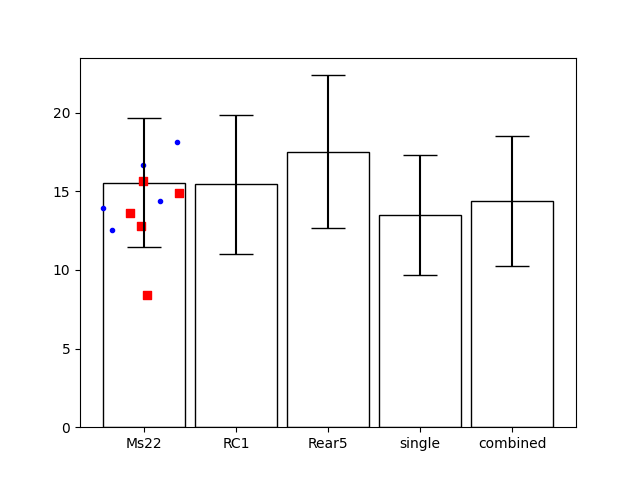
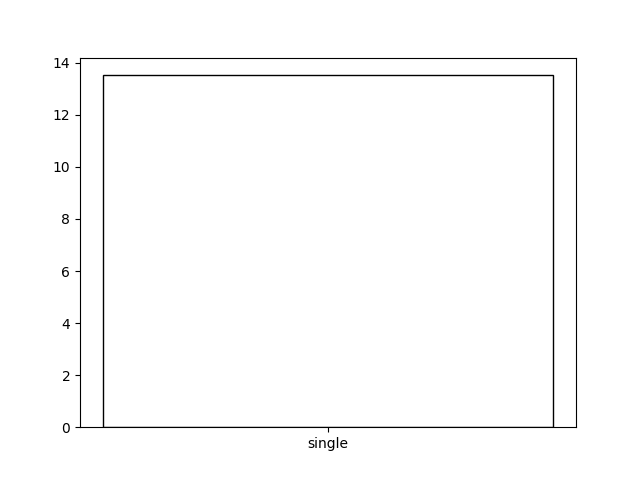
DLC udpate

diff --git a/DeepLabCut/DLC_jump_analysis/all_trackers/jump_analysis.py b/DeepLabCut/DLC_jump_analysis/all_trackers/jump_analysis.py
@@ -31,14 +31,15 @@ def main(full_path, relative_path, fname1, fname2):
         nose_values1 = nose_df1.columns.values.astype(float)
         dataframes_list.append(nose_values1)
 
-    combined_values = dataframes_list[0]
-    print(combined_values)
-    combined_values_wo_Rear5 = combined_values[0:10]
-    print(combined_values_wo_Rear5)
+    # combined_values = dataframes_list[0]
+    #single_values = dataframes_list[0]
+    # print(combined_values)
+    # combined_values_wo_Rear5 = combined_values[0:10]
+    # print(combined_values_wo_Rear5)
 
-    Ms22_values = dataframes_list[1]
-    RC1_values = dataframes_list[2]
-    Rear5_values = dataframes_list[3]
+    # Ms22_values = dataframes_list[1]
+    # RC1_values = dataframes_list[2]
+    # Rear5_values = dataframes_list[3]
     single_values = dataframes_list[4]
     #Order of single trackers: Ms22, RC1, Rear5
   
@@ -48,9 +49,9 @@ def main(full_path, relative_path, fname1, fname2):
     x2 = [1, 2, 3, 4, 5]
     colors1 = ['red','blue']
     colors2 = ['red','blue', 'green', 'purple', 'orange', 'brown']
-    y1 = single_values, combined_values
+    y1 = single_values#, combined_values
     #y2 = Ms22_values, RC1_valuecds, Rear5_values
-    y3 = Ms22_values, RC1_values, Rear5_values, single_values, combined_values
+    #y3 = Ms22_values, RC1_values, Rear5_values, single_values, combined_values
     #y5 = single_trackers_df, combined_new_df_values, avg_new_df_values
 
     #AVG THE VALUES FROM 3 SINGLE TRACKERS
@@ -61,20 +62,22 @@ def main(full_path, relative_path, fname1, fname2):
     #print(avg_all_trackers)
     # y4 = avg_all_trackers
     
-    labels = ['single', 'combined']
+    labels = ['single']
 
     
 
     figure1 = plt.figure(1)
-    plt.bar(x2,
-           height=[np.mean(yi) for yi in y1],
-           yerr=[np.std(yi) for yi in y1],    # error bars
+    plt.bar(x1,
+           height=[np.mean(y1)],#height=[np.mean(yi) for yi in y1]
+           #yerr=[np.std(yi) for yi in y1],    # error bars
            capsize=12, # error bar cap width in points
            width=w,    # bar width
            tick_label=labels,
            color=(0,0,0,0),  # face color transparent
            edgecolor=['black'],
          )
+    height=[np.mean(y1)]
+    print(height)
 
     # exact_values=[np.mean(yi) for yi in y3]
     # print(exact_values)
@@ -82,12 +85,12 @@ def main(full_path, relative_path, fname1, fname2):
 
 
 
-    for i in range(len(x1)):
-        #distribute scatter randomly across whole width of bar
-        a = y1[i]
+    # for i in range(len(x1)):
+    #     #distribute scatter randomly across whole width of bar
+    #     a = y1[i]
         #print(y)
-        plt.scatter(x1[i] + np.random.random(a[0:5].size) * w - w / 2, a[0:5], color=colors2[1], marker='.') #circle marker = Ms22
-        plt.scatter(x1[i] + np.random.random(a[5:10].size) * w - w / 2, a[5:10], color=colors2[0], marker = "s") #square marker = RC1
+        #plt.scatter(x1[i] + np.random.random(a[0:5].size) * w - w / 2, a[0:5], color=colors2[1], marker='.') #circle marker = Ms22
+        #plt.scatter(x1[i] + np.random.random(a[5:10].size) * w - w / 2, a[5:10], color=colors2[0], marker = "s") #square marker = RC1
         #plt.scatter(x1[i] + np.random.random(a[10:15].size) * w - w / 2, a[10:15], color=colors1[0], marker = "*") #star marker = Rear5
 
     os.chdir(current_dir + '/saved_figs')
@@ -197,4 +200,4 @@ def main(full_path, relative_path, fname1, fname2):
     # plt.show()
 
 
-main(full_path_directory, nose_directory , "nose_results_1.png", "nose_results_2.png")#, "nose_results_2.png")
+main(full_path_directory, org_nose_directory, "nose_results_1.png", "nose_results_2.png")#, "nose_results_2.png")
